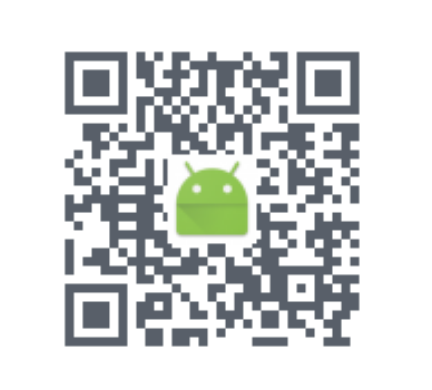
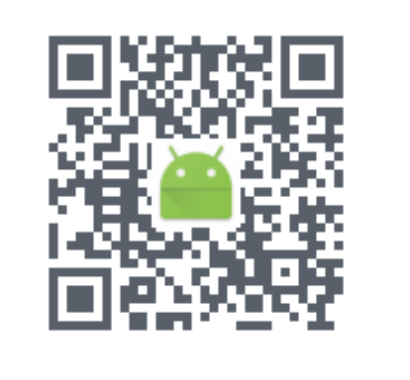
1.更新二维码

diff --git a/app/common/Request.js b/app/common/Request.js
@@ -160,11 +160,11 @@ const  Request = {
         },body)
             .uploadProgress((written, total) => {
                 // 搜索进度打印
-                console.log('搜索进度:'+written / total);
+                // console.log('搜索进度:'+written / total);
             })
             .progress((received, total) => {
                 let perent = received / total;
-                console.log('上传进度:' + perent);
+                // console.log('上传进度:' + perent);
                 uploadProgress(perent);
             })
             .then((response)=>{

diff --git a/app/common/Config.js b/app/common/Config.js
@@ -4,13 +4,13 @@
 'use strict';
 
 const base = {
-    baseURL : iOS?'http://localhost:3000/api':'http://172.16.17.11:3000/api',
+    // baseURL : iOS?'http://localhost:3000/api':'http://172.16.17.11:3000/api',
 
 
     // baseURL:iOS?'http://localhost:1234/api':'http://10.0.2.2:1234/api',
 
     // baseURL:!iOS?'http://localhost:1234/api':'http://172.16.17.61:1234/api',
-    // baseURL :'http://shitu.leanapp.cn/api'
+    baseURL :'http://shitu.leanapp.cn/api'
 };
 
 const Config = {
